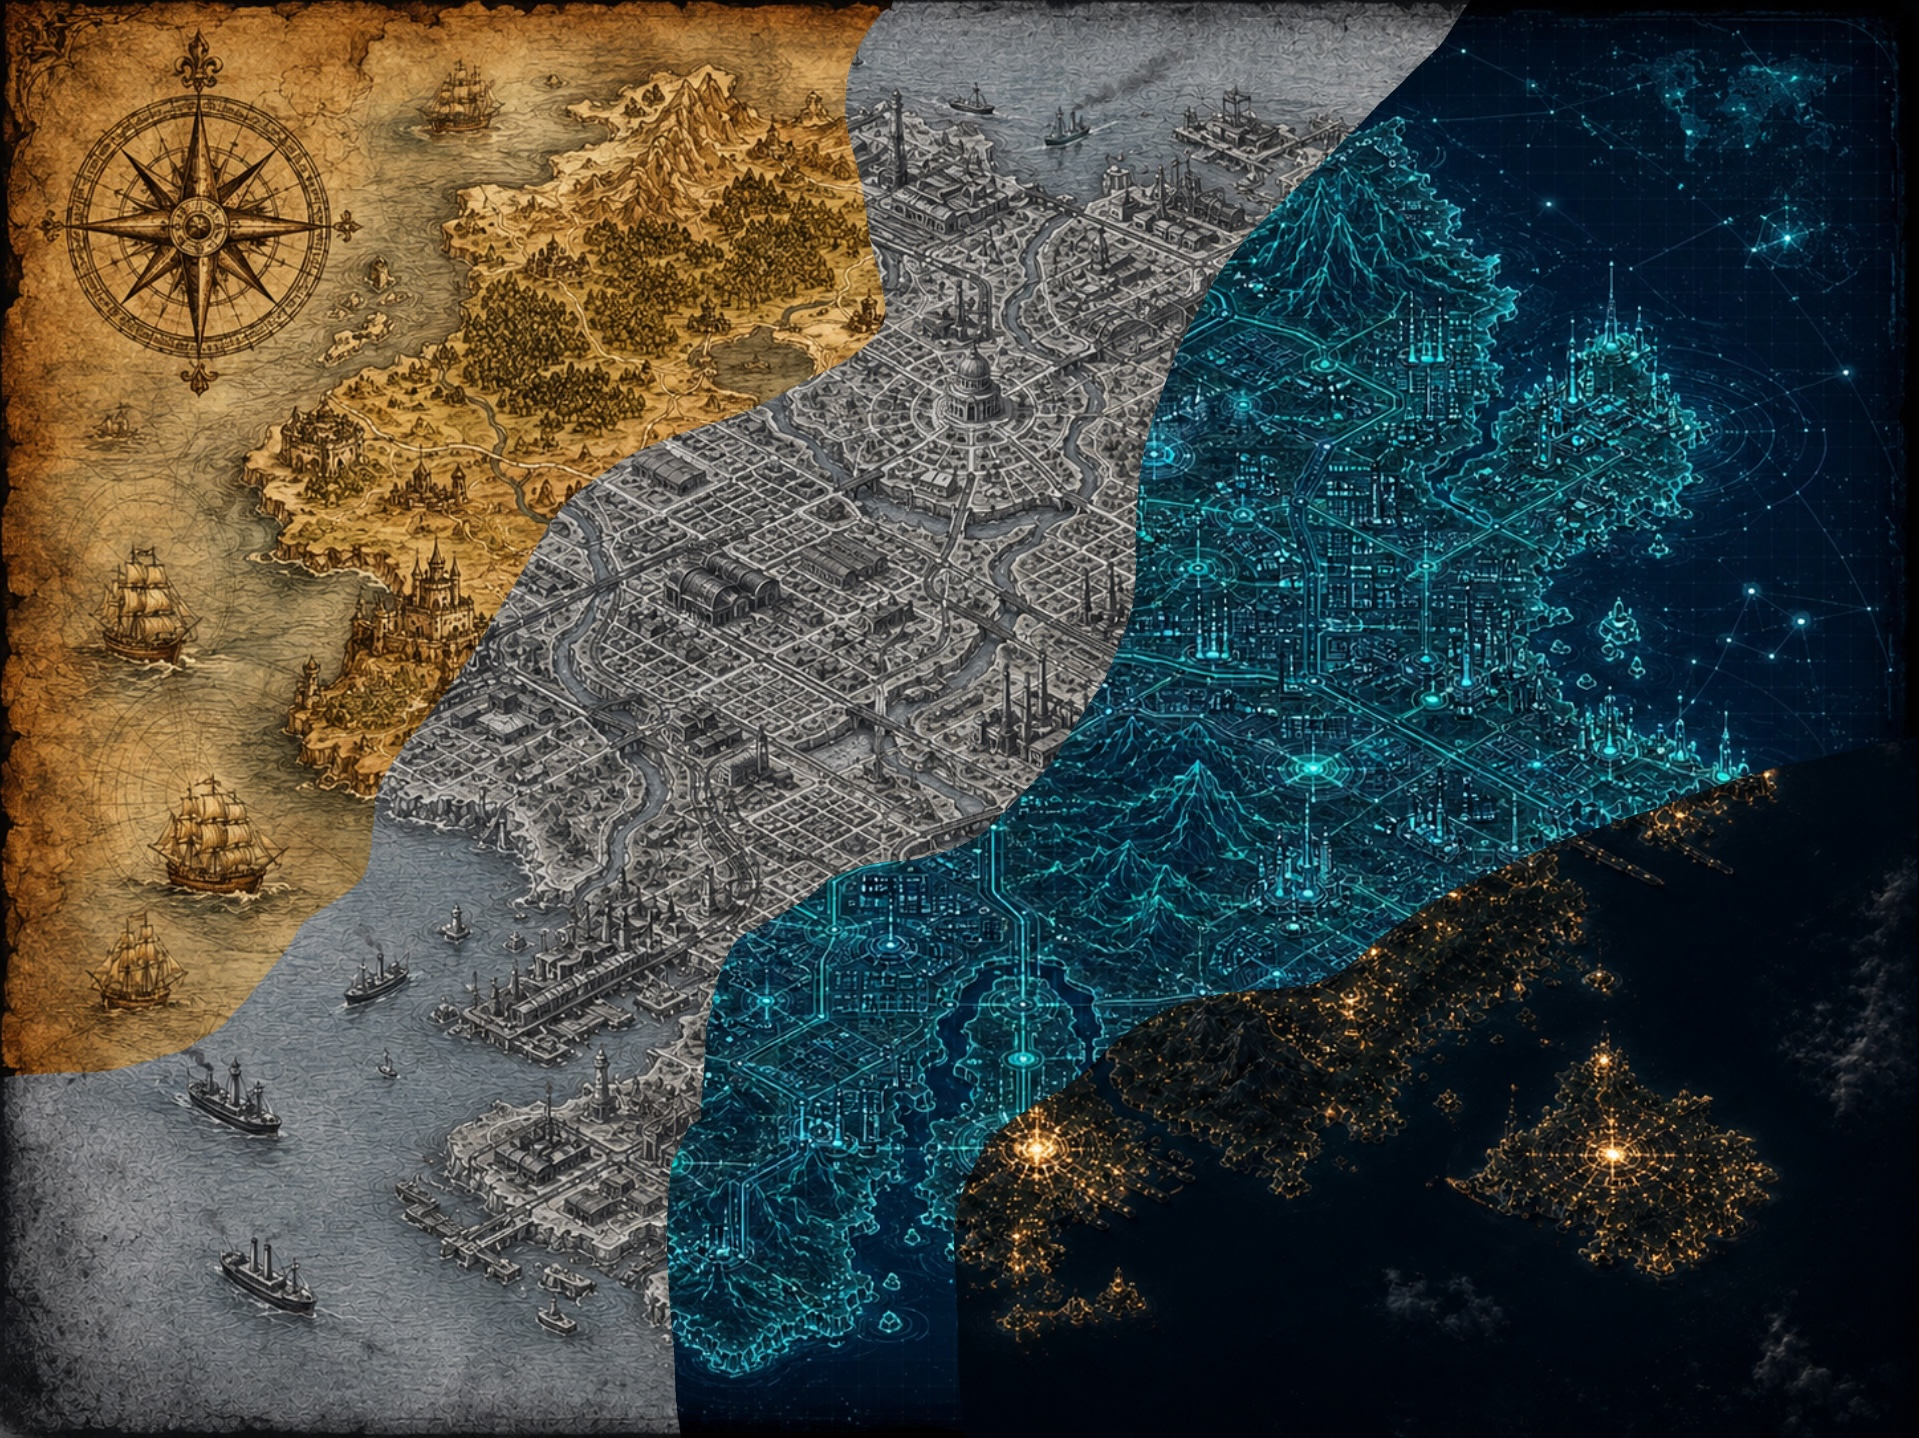
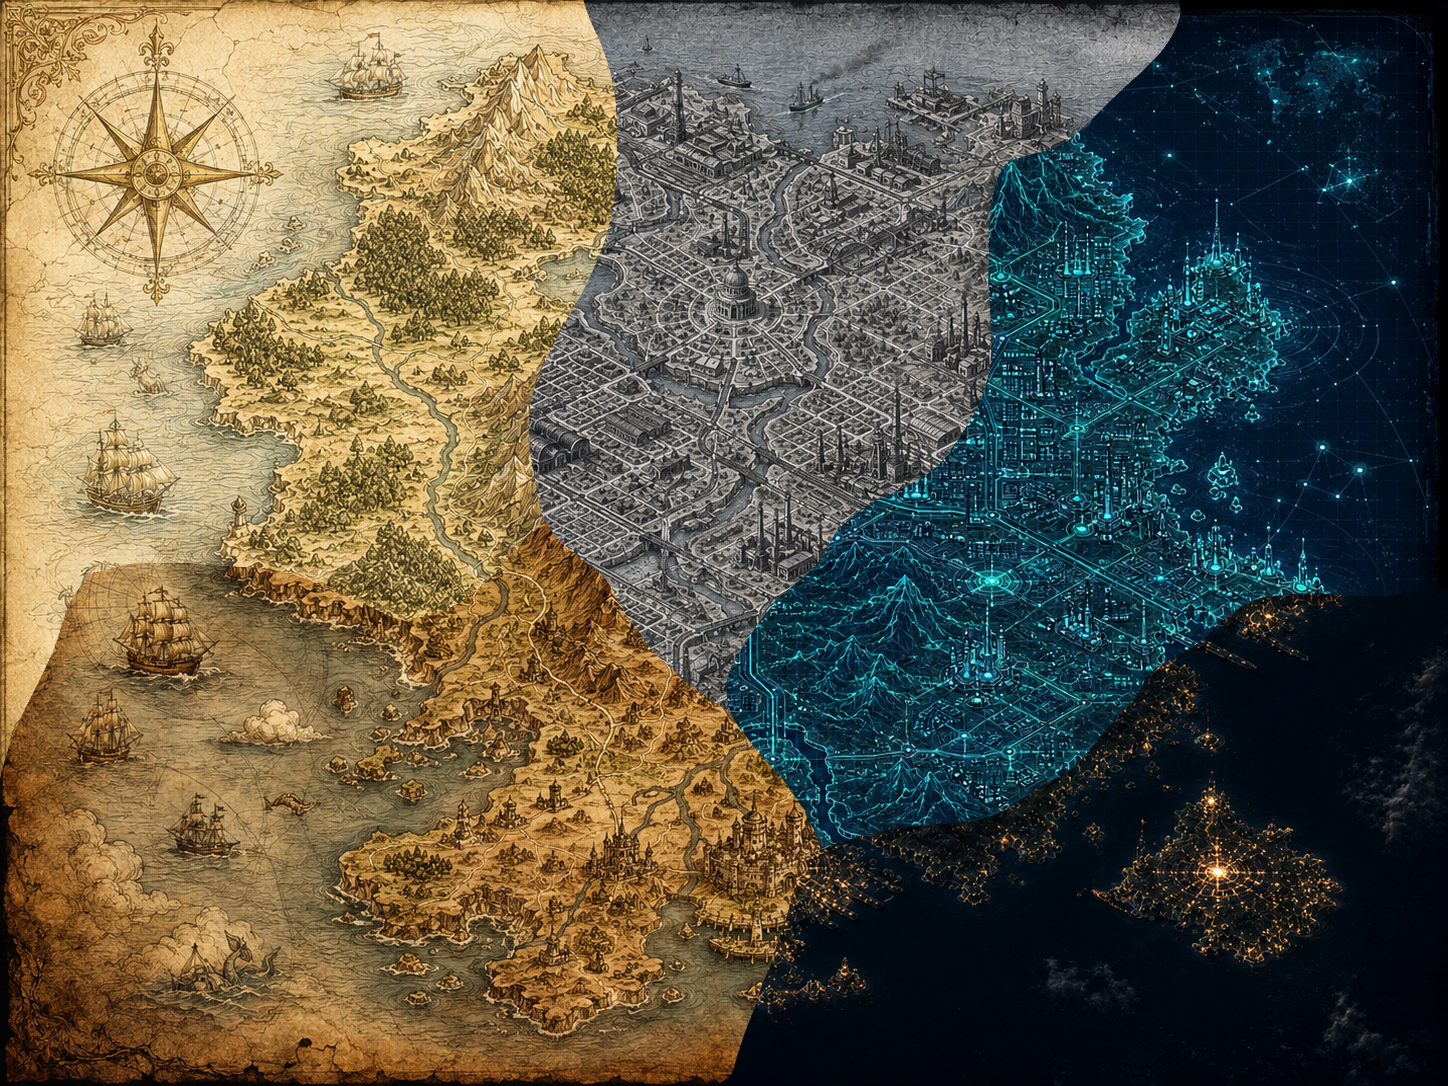
map change

diff --git a/tests/test_integration_game.py b/tests/test_integration_game.py
@@ -8,8 +8,13 @@ keys, mismatched ids, and replays are all rejected. Verifies behaviour; never
 relaxes gating, scoring, or logging to pass.
 """
 
+import json
+import re
+
+import pytest
+
 from app.models import (
-    LocationProgress, QuizAttempt, GameSession, Achievement, db,
+    LocationProgress, QuizAttempt, GameSession, Achievement, TrialAttempt, db,
 )
 from app.game_content import LOCATIONS, QUIZZES, TRIAL_COUNT, get_questions_by_keys
 
@@ -19,16 +24,20 @@ def _fresh():
 
 
 def _start(client, loc):
-    """GET the Trial so the SERVER creates + stores this attempt; return
-    (attempt_id, stored_keys, question dicts). The browser never chooses the set."""
+    """GET the Trial so the SERVER creates + stores a durable TrialAttempt DB
+    row; return (token, stored_keys, question dicts). The page carries only the
+    opaque token; the keys are read back from the DB (never a browser cookie)."""
     if LOCATIONS[loc]["interaction"] == "terminal":
-        client.get(f"/location/{loc}")
+        html = client.get(f"/location/{loc}").get_data(as_text=True)
     else:
-        client.get(f"/location/{loc}/trial")
-    with client.session_transaction() as s:
-        att = s.get(f"trial_{loc}")
-    assert att, f"server did not create a trial attempt for {loc}"
-    return att["aid"], att["keys"], get_questions_by_keys(loc, att["keys"])
+        html = client.get(f"/location/{loc}/trial").get_data(as_text=True)
+    m = re.search(r'name="attempt_id" value="([^"]+)"', html)
+    assert m, f"server did not render an attempt token for {loc}"
+    token = m.group(1)
+    att = TrialAttempt.query.filter_by(token=token).first()
+    assert att is not None and att.status == "open", "start must create an open DB attempt"
+    keys = json.loads(att.question_keys)
+    return token, keys, get_questions_by_keys(loc, keys)
 
 
 def _answer_data(qs, n_correct):
@@ -219,6 +228,93 @@ def test_commit_endpoint_rejects_unknown_question(client, user_factory, login):
     other = next(q["key"] for q in QUIZZES["library"] if q["key"] not in keys)
     r = client.post("/location/library/answer", json={"attempt_id": aid, "qkey": other, "letter": "A"})
     assert r.status_code == 400, "an off-attempt question is rejected"
+
+
+# ══════════ Durable server-authoritative TrialAttempt (DB, not cookie) ══════════
+
+def test_trial_attempt_is_a_durable_db_row(client, user_factory, login):
+    """Starting a Trial creates a durable TrialAttempt row — status 'open', with
+    exactly 4 unique server-chosen keys and no recorded answers yet — NOT a cookie."""
+    u = user_factory()
+    login(u)
+    token, keys, qs = _start(client, "library")
+    att = TrialAttempt.query.filter_by(token=token).first()
+    assert att is not None and att.user_id == u.id and att.location == "library"
+    assert att.status == "open" and att.submitted_at is None
+    stored = json.loads(att.question_keys)
+    assert len(stored) == TRIAL_COUNT and len(set(stored)) == TRIAL_COUNT
+    assert json.loads(att.answers_json) == {}
+
+
+def test_submit_records_outcome_on_attempt_row(client, user_factory, login):
+    """Grading flips the attempt to 'submitted' and stamps score/passed/submitted_at."""
+    u = user_factory()
+    login(u)
+    token, keys, qs = _start(client, "library")
+    data = {"attempt_id": token}
+    data.update(_answer_data(qs, 4))
+    client.post("/location/library/submit", data=data)
+    _fresh()
+    att = TrialAttempt.query.filter_by(token=token).first()
+    assert att.status == "submitted" and att.score == 4 and att.passed is True
+    assert att.submitted_at is not None
+
+
+def test_three_of_four_passes_and_logs_four_rows(client, user_factory, login):
+    """A normal 3/4 correct submission against the stored set PASSES (threshold
+    3/4 unchanged) and logs exactly 4 QuizAttempt rows."""
+    u = user_factory()
+    login(u)
+    token, keys, qs = _start(client, "library")
+    data = {"attempt_id": token}
+    data.update(_answer_data(qs, 3))   # exactly 3 correct
+    r = client.post("/location/library/submit", data=data)
+    assert r.status_code == 200
+    _fresh()
+    lp = LocationProgress.query.filter_by(user_id=u.id, location="library").first()
+    assert lp.passed is True and lp.best_score == 3
+    assert QuizAttempt.query.filter_by(user_id=u.id, location="library").count() == TRIAL_COUNT
+    att = TrialAttempt.query.filter_by(token=token).first()
+    assert att.status == "submitted" and att.score == 3 and att.passed is True
+
+
+def test_attempt_of_another_user_is_rejected(client, user_factory, login):
+    """A token that belongs to a DIFFERENT user cannot be graded (ownership check)."""
+    owner = user_factory()
+    login(owner)
+    token, keys, qs = _start(client, "library")
+    other = user_factory()
+    login(other)                        # switch client to a second user
+    data = {"attempt_id": token}
+    data.update(_answer_data(qs, 4))
+    r = client.post("/location/library/submit", data=data)
+    assert r.status_code == 302, "another user's attempt must be rejected"
+    _fresh()
+    assert TrialAttempt.query.filter_by(token=token).first().status == "open", "not consumed"
+    assert QuizAttempt.query.filter_by(user_id=other.id, location="library").count() == 0
+
+
[email redacted]("bad", ["fewer", "more", "duplicate"])
+def test_malformed_stored_keyset_is_rejected(client, user_factory, login, bad):
+    """If the stored key-set isn't exactly 4 UNIQUE known keys (fewer, more, or a
+    smuggled duplicate), grading refuses rather than scoring one answer N times."""
+    u = user_factory()
+    login(u)
+    token, keys, qs = _start(client, "library")
+    bank = [q["key"] for q in QUIZZES["library"]]
+    if bad == "fewer":
+        forged = keys[:3]
+    elif bad == "more":
+        forged = list(dict.fromkeys(bank))[:5]     # library bank has 5 unique keys
+    else:
+        forged = [keys[0]] * 4                      # 4 entries, 1 unique
+    att = TrialAttempt.query.filter_by(token=token).first()
+    att.question_keys = json.dumps(forged)
+    db.session.commit()
+    r = client.post("/location/library/submit", data={"attempt_id": token})
+    assert r.status_code == 302, f"a {bad} stored key-set must be rejected"
+    _fresh()
+    assert QuizAttempt.query.filter_by(user_id=u.id, location="library").count() == 0
 
 
 # ── the hub renders for an authenticated user ───────────────────────────

diff --git a/app/routes/game.py b/app/routes/game.py
@@ -1,3 +1,4 @@
+import json
 import secrets
 from datetime import datetime
 
@@ -29,6 +30,7 @@ from ..models import (
     NpcInteraction,
     QuizAttempt,
     Reflection,
+    TrialAttempt,
     db,
 )
 from ..services.achievements import (
@@ -317,38 +319,60 @@ def mark_progress(key):
 TRIAL_TTL_SECONDS = 2 * 60 * 60
 
 
+def _attempt_keys(att):
+    try:
+        return json.loads(att.question_keys) or []
+    except (TypeError, ValueError):
+        return []
+
+
+def _attempt_answers(att):
+    try:
+        return json.loads(att.answers_json) or {}
+    except (TypeError, ValueError):
+        return {}
+
+
 def _start_trial_attempt(key):
-    """Begin a Trial attempt SERVER-side. The server chooses the TRIAL_COUNT
-    unique question keys and stores them in the (signed) session under a fresh
-    random attempt id + start time. The browser is given ONLY the attempt id —
-    never a trusted list of which questions to grade. Returns (attempt_id, quiz
-    dicts to render).  Old `shown_<key>` fallbacks are intentionally gone."""
+    """Begin a Trial attempt SERVER-side and DURABLY. The server chooses the
+    TRIAL_COUNT unique question keys and stores them in a `TrialAttempt` DB row
+    (status 'open') under a fresh random opaque token. The browser is given ONLY
+    that token — never a trusted list of which questions to grade, and never the
+    answer key. Returns (token, quiz dicts to render)."""
     keys = list(dict.fromkeys(select_trial_questions(key)))[:TRIAL_COUNT]
-    aid = secrets.token_urlsafe(12)
-    session[f"trial_{key}"] = {
-        "aid": aid,
-        "keys": keys,
-        "started": datetime.utcnow().timestamp(),
-        "graded": False,
-        "answers": {},          # qkey -> FIRST committed letter (locked server-side)
-    }
-    session.modified = True
-    return aid, get_questions_by_keys(key, keys)
+    token = secrets.token_urlsafe(16)
+    att = TrialAttempt(
+        token=token,
+        user_id=current_user.id,
+        location=key,
+        question_keys=json.dumps(keys),
+        answers_json="{}",
+        status="open",
+        started_at=datetime.utcnow(),
+    )
+    db.session.add(att)
+    db.session.commit()
+    return token, get_questions_by_keys(key, keys)
 
 
-def _load_trial_attempt(key, aid):
-    """Return (attempt, None) for a valid, ungraded, unexpired attempt whose id
-    matches `aid` and whose stored key-set is exactly TRIAL_COUNT unique known
-    keys; otherwise (None, reason). Never trusts anything the browser says about
-    WHICH questions were shown."""
-    att = session.get(f"trial_{key}")
-    if not att or att.get("aid") != aid:
+def _load_trial_attempt(key, token):
+    """Return (TrialAttempt, None) for a valid 'open', unexpired attempt that
+    belongs to THIS user + location and whose stored key-set is exactly
+    TRIAL_COUNT unique known keys; otherwise (None, reason). Loads the durable DB
+    row by its opaque token — never trusts anything the browser says about WHICH
+    questions were shown."""
+    if not token:
         return None, "invalid"
-    if att.get("graded"):
-        return None, "already-graded"
-    if datetime.utcnow().timestamp() - att.get("started", 0) > TRIAL_TTL_SECONDS:
+    att = TrialAttempt.query.filter_by(token=token).first()
+    if att is None or att.user_id != current_user.id or att.location != key:
+        return None, "invalid"
+    if att.status != "open":
+        return None, att.status  # 'submitted' (replay) or 'expired'
+    if (datetime.utcnow() - (att.started_at or datetime.utcnow())).total_seconds() > TRIAL_TTL_SECONDS:
+        att.status = "expired"
+        db.session.commit()
         return None, "expired"
-    keys = att.get("keys") or []
+    keys = _attempt_keys(att)
     bank = {q["key"] for q in QUIZZES.get(key, [])}
     if len(keys) != TRIAL_COUNT or len(set(keys)) != TRIAL_COUNT or not set(keys) <= bank:
         return None, "corrupt"
@@ -374,7 +398,7 @@ def commit_answer(key):
     data = request.get_json(silent=True) or {}
     att, err = _load_trial_attempt(key, data.get("attempt_id", ""))
     qkey = data.get("qkey", "")
-    if att is None or qkey not in att["keys"]:
+    if att is None or qkey not in _attempt_keys(att):
         return jsonify({"error": err or "invalid"}), 400
     q = get_questions_by_keys(key, [qkey])
     if not q:
@@ -383,11 +407,11 @@ def commit_answer(key):
     letter = data.get("letter", "")
     if letter not in q["options"]:
         return jsonify({"error": "bad-option"}), 400
-    answers = att.setdefault("answers", {})
+    answers = _attempt_answers(att)
     if qkey not in answers:                     # record only the FIRST commit
         answers[qkey] = letter
-        session[f"trial_{key}"] = att
-        session.modified = True
+        att.answers_json = json.dumps(answers)
+        db.session.commit()
     committed = answers[qkey]
     is_correct = committed == q["correct"]
     feedback = (q.get("feedback_correct") if is_correct else q.get("feedback_wrong")) or q.get("explanation", "")
@@ -437,18 +461,17 @@ def submit_quiz(key):
     )
     att, err = _load_trial_attempt(key, request.form.get("attempt_id", ""))
     if att is None:
-        session.pop(f"trial_{key}", None)
         flash("That Trial attempt has expired or was already submitted — here is a fresh Trial.", "warning")
         return redirect(fresh)
 
-    stored_keys = att["keys"]
+    stored_keys = _attempt_keys(att)
     quiz = get_questions_by_keys(key, stored_keys)
 
     # The FIRST answer committed per question (recorded server-side via
     # /answer) is authoritative; fall back to a validated form value only for a
     # question that was never committed (e.g. JavaScript disabled). Anything that
     # isn't one of THAT question's option letters is treated as unanswered.
-    recorded = att.get("answers", {})
+    recorded = _attempt_answers(att)
     submitted = {}
     for q in quiz:
         val = recorded.get(q["key"])
@@ -458,10 +481,12 @@ def submit_quiz(key):
         submitted[q["key"]] = val
     results, score, total, passed = grade_quiz(key, submitted, shown_keys=stored_keys)
 
-    # One grading per attempt id — mark it consumed so a replayed POST is refused.
-    att["graded"] = True
-    session[f"trial_{key}"] = att
-    session.modified = True
+    # One grading per attempt (durable) — flip 'open' -> 'submitted' so a replayed
+    # POST is refused, and record the outcome on the attempt row.
+    att.status = "submitted"
+    att.score = score
+    att.passed = passed
+    att.submitted_at = datetime.utcnow()
 
     lp = get_or_create_progress(current_user, key)
     attempt_number = lp.attempts_count + 1

diff --git a/app/models/__init__.py b/app/models/__init__.py
@@ -1,5 +1,5 @@
 """
-Database models for Atlas Quest — 10 tables.
+Database models for Atlas Quest — 11 tables.
 
 The single SQLAlchemy instance `db` lives here and is initialised in
 app/__init__.py via db.init_app(app). SQLite auto-creates at
@@ -73,6 +73,32 @@ class QuizAttempt(db.Model):
     attempt_number = db.Column(db.Integer, nullable=False, default=1)
     npc_consulted = db.Column(db.Boolean, default=False)
     created_at = db.Column(db.DateTime, default=datetime.utcnow)
+
+
+class TrialAttempt(db.Model):
+    """Durable, SERVER-AUTHORITATIVE record of one Trial attempt.
+
+    The server chooses the TRIAL_COUNT unique question keys and stores them here
+    (never the browser); the page carries only this row's opaque `token`. Grading
+    reads the stored keys + the recorded first-committed answers, so a forged /
+    duplicated / mismatched key list from the client cannot influence the result,
+    and an attempt is graded at most once (status 'open' -> 'submitted').
+
+    This is NOT the same as `quiz_attempts`, which remains the per-question
+    research log (one row per graded question, unchanged)."""
+    __tablename__ = "trial_attempts"
+
+    id = db.Column(db.Integer, primary_key=True)
+    token = db.Column(db.String(64), unique=True, nullable=False, index=True)  # opaque server attempt id
+    user_id = db.Column(db.Integer, db.ForeignKey("users.id"), nullable=False, index=True)
+    location = db.Column(db.String(40), nullable=False)
+    question_keys = db.Column(db.Text, nullable=False)               # JSON list of the 4 server-chosen unique keys
+    answers_json = db.Column(db.Text, nullable=False, default="{}")  # JSON {qkey: first-committed letter}
+    status = db.Column(db.String(16), nullable=False, default="open")  # open | submitted | expired
+    score = db.Column(db.Integer, nullable=True)
+    passed = db.Column(db.Boolean, nullable=True)
+    started_at = db.Column(db.DateTime, default=datetime.utcnow)
+    submitted_at = db.Column(db.DateTime, nullable=True)
 
 
 class KnowledgeTest(db.Model):

diff --git a/app/__init__.py b/app/__init__.py
@@ -145,6 +145,19 @@ def _ensure_sqlite_columns():
         "users": [("seen_intro", "INTEGER")],
     }
     conn = db.session.connection()
+
+    # Reconcile a STALE `trial_attempts` table left by an earlier, reverted
+    # design (different columns; create_all never ALTERs an existing table). It
+    # holds NO research data — that's quiz_attempts; a trial_attempts row is
+    # transient server-authoritative grading-flow state — so if the current
+    # TrialAttempt columns (e.g. `token`) are absent, drop the empty stale table
+    # and let create_all rebuild it to match the model. Guarded; no-op once correct.
+    ta_cols = {row[1] for row in conn.execute(text("PRAGMA table_info(trial_attempts)"))}
+    if ta_cols and "token" not in ta_cols:
+        conn.execute(text("DROP TABLE trial_attempts"))
+        db.session.commit()
+        db.create_all()  # recreate trial_attempts with the current schema
+
     for table, cols in wanted.items():
         existing = {row[1] for row in conn.execute(text(f"PRAGMA table_info({table})"))}
         for name, coltype in cols:

diff --git a/tests/conftest.py b/tests/conftest.py
@@ -142,6 +142,16 @@ def login(client):
         with client.session_transaction() as sess:
             sess["_user_id"] = str(user.id)
             sess["_fresh"] = True
+        # The test's app context is long-lived, so Flask-Login caches the loaded
+        # user on g._login_user and would otherwise LEAK the previous user across
+        # requests within one test (in production every HTTP request gets a fresh
+        # context). Clear it so switching users actually takes effect — otherwise
+        # a cross-user test would falsely see the first user on later requests.
+        try:
+            from flask import g
+            g.pop("_login_user", None)
+        except Exception:
+            pass
     return _login
 
 